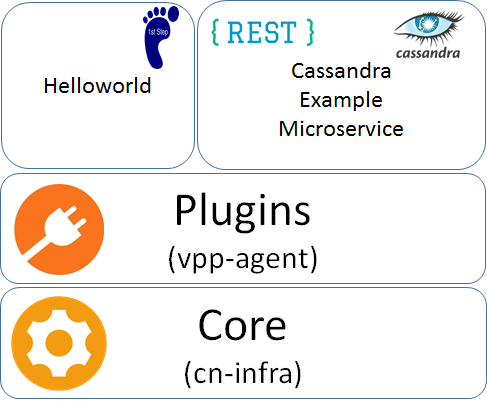
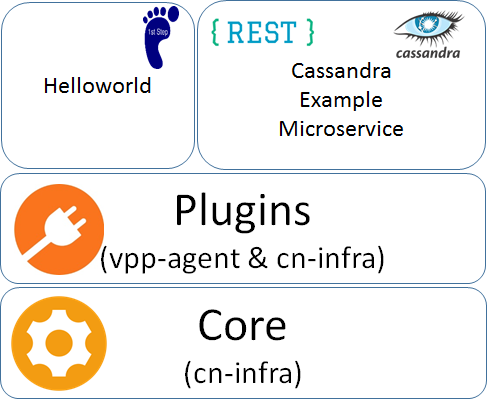
ODPM-454 added diagram and some explanation to README.md

Changed region(s): [[0.1848, 0.5839, 0.8008, 0.6715]]

diff --git a/README.md b/README.md
@@ -18,7 +18,8 @@ The sample service repository contains:
 * [Hello World!](cmd/helloworld) - minimalistic extension of the vpp-agent
 * [Cassandra](cmd/cassandra) - comming soon (it is supposed to showcase REST API calls that work with Cassandra)
 * Plugins from [vpp-agent](https://github.com/ligato/vpp-agent/tree/master/plugins) and [cn-infra](https://github.com/ligato/cn-infra)
-* [Core from cn-infra](https://github.com/ligato/cn-infra/tree/master/core) - lifecycle management of plugins (loading, 
+* [Core](https://github.com/ligato/cn-infra/tree/master/core) from cn-infra - lifecycle management of plugins (loading, 
+initialization, unloading)
 
 ## Quickstart
 
